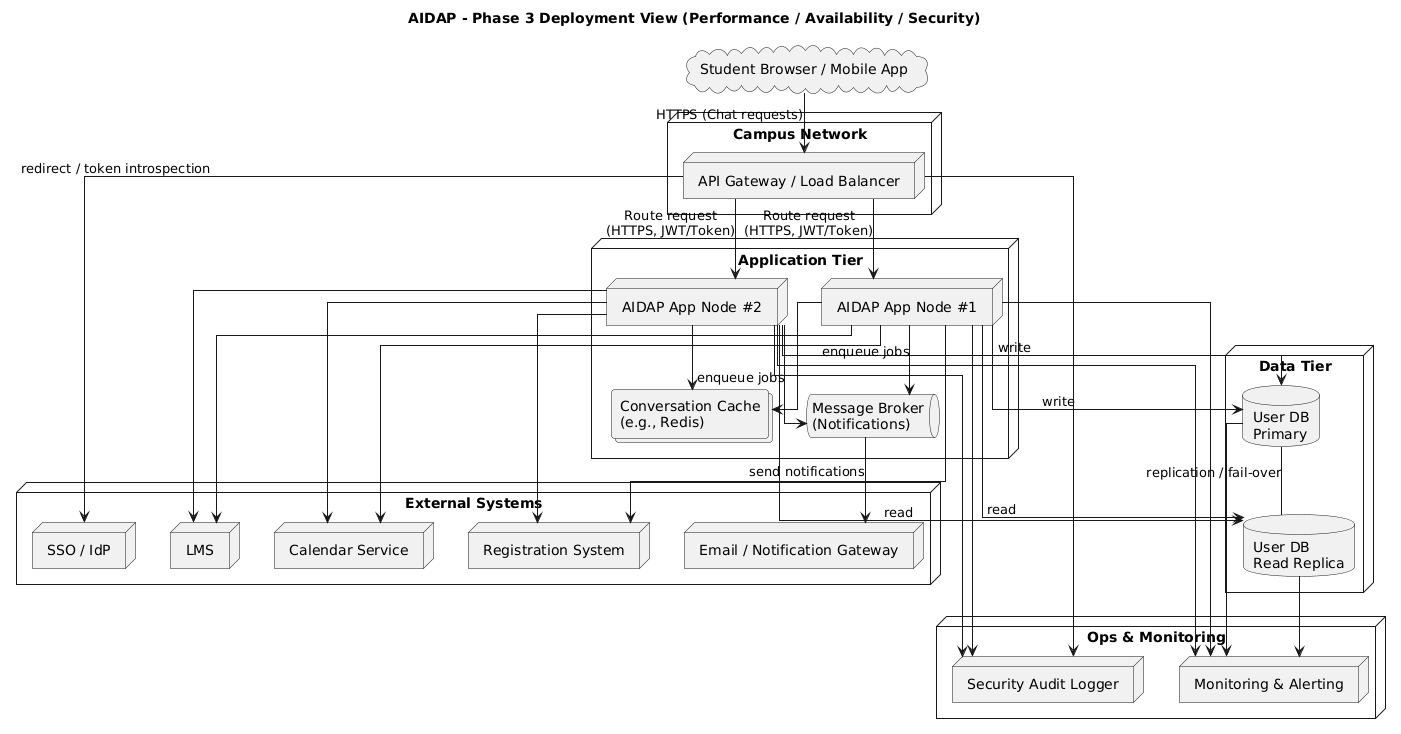
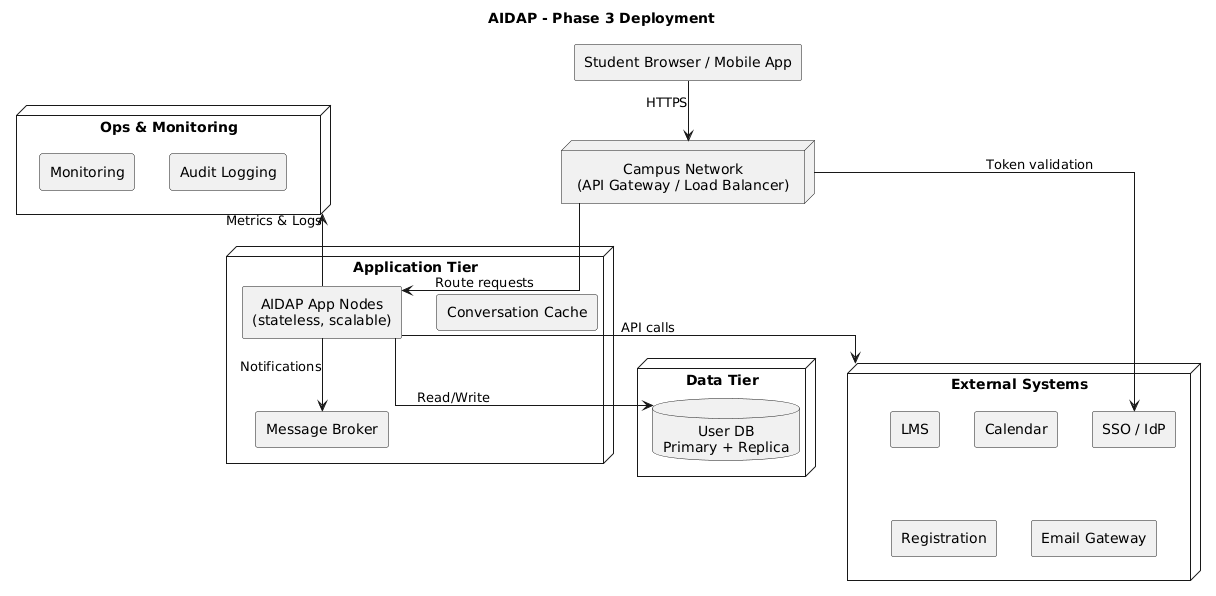
Changed steps 3 and 4 to match the FCAPS example even more

Changed region(s): [[0.0, 0.0, 1.0, 0.9966], [0.8125, 0.2718, 0.9062, 0.302], [0.75, 0.2718, 0.7812, 0.302]]

diff --git a/Iteration3.md b/Iteration3.md
@@ -37,43 +37,23 @@ We refine the following elements from earlier iterations:
 
 These elements have the biggest impact on performance, availability, and security for typical queries such as _“When is my next exam?”_ and for deadline notifications.
 
+**Rationale for choosing these elements:**  
+These components were selected because they directly affect the three quality attributes driving this iteration—**performance**, **availability**, and **security/privacy**. The API Gateway, App Nodes, and Cache are central to meeting the 2-second response-time requirement. The replicated App Nodes, Message Broker, and DB Replicas are essential for achieving high availability and fault tolerance. The SSO Adapter, Audit Logger, and ConversationService are the primary enforcement points for authentication, authorization, and privacy constraints. These elements therefore represent the parts of the architecture most impacted by the required quality improvements and are the natural focus of refinement in this iteration.
+
 ---
 
-## Step 4 – Select Architectural Concepts and Tactics
+## Step 4 – Design Decisions and Tactics Used
 
-### 4.1 Availability tactics
-
-- **Redundancy and replication**
-  - Deploy multiple stateless **AIDAP App Nodes** behind a load balancer.
-  - Use **DB primary + read replica** with automated fail-over.
-- **Health monitoring / restart**
-  - Health checks from the load balancer and monitoring service restart unhealthy instances.
-- **Backup and restore**
-  - Nightly backups of critical databases and conversation history; tested recovery procedures.
-
-### 4.2 Performance tactics
-
-- **Introduce concurrency**
-  - External calls (LMS, Calendar, etc.) are executed in parallel in `ScheduleQueryHandler`.
-- **Introduce caching**
-  - `Conversation Cache` storing recent schedules, upcoming assessments, and conversation context.
-- **Manage resources**
-  - DB connection pooling.
-  - Use of a **message broker** to handle asynchronous notification work so interactive queries are not blocked.
-- **Resource scheduling**
-  - Background analytics jobs run with lower priority than interactive chat traffic.
-
-### 4.3 Security & Privacy tactics
-
-- **Authenticate at the perimeter**
-  - All requests go through an **API Gateway** that integrates with institutional **SSO**.
-- **Authorize centrally**
-  - `Auth / SSO Adapter` exposes identity + roles (Student, Instructor, Admin, Maintainer).
-  - `ConversationService` enforces access rules (e.g., students can only see their own data).
-- **Encrypt communication and sensitive data**
-  - TLS for all network links; encryption at rest for selected columns (tokens, IDs).
-- **Record and monitor security events**
-  - `Security Audit Logger` records login, access to private data, admin operations.
+| Design Decisions and Location | Rationale and Assumptions |
+|------------------------------|---------------------------|
+| **Replicate AIDAP App Nodes using active redundancy** | Replicating the application nodes allows the system to tolerate failures of a single node without service interruption. This supports availability requirements (RS11, RA6). Load can also be distributed to improve performance under peak usage. |
+| **Introduce a load-balancing mechanism at the API Gateway** | A load balancer distributes traffic evenly across replicated App Nodes, improving responsiveness and ensuring no single node becomes a bottleneck. Technology-supported load balancing avoids custom solutions and increases reliability. |
+| **Deploy a Message Broker on a separate node** | Separating the notification pipeline ensures that failure of the main application nodes does not interfere with delivery of notifications or background tasks. A queue also ensures ordered and reliable message processing. |
+| **Use a DB Primary + Read Replica deployment strategy** | The read replica improves performance by offloading read-heavy workloads, while the primary handles writes. Replication supports fail-over and improves availability. |
+| **Introduce a Conversation Cache (Redis)** | Frequently accessed data such as upcoming assessments or recent conversation context can be cached to reduce latency and meet the 2-second response-time requirement. |
+| **Enforce SSO authentication at the Gateway boundary** | Ensuring authentication occurs at the perimeter prevents unauthorized access and reduces the risk of bypassing access controls. This strengthens security/privacy compliance. |
+| **Add a Security Audit Logger** | Logging access attempts, SSO validations, and sensitive data interactions supports auditing requirements and detection of anomalies. Assumes sufficient storage and log rotation policies. |
+| **Integrate Monitoring & Alerting** | Provides continuous observation of latency, failure rates, node health, and external API availability. Needed to validate that performance and availability requirements are being met in real time. |
 
 ---
 
